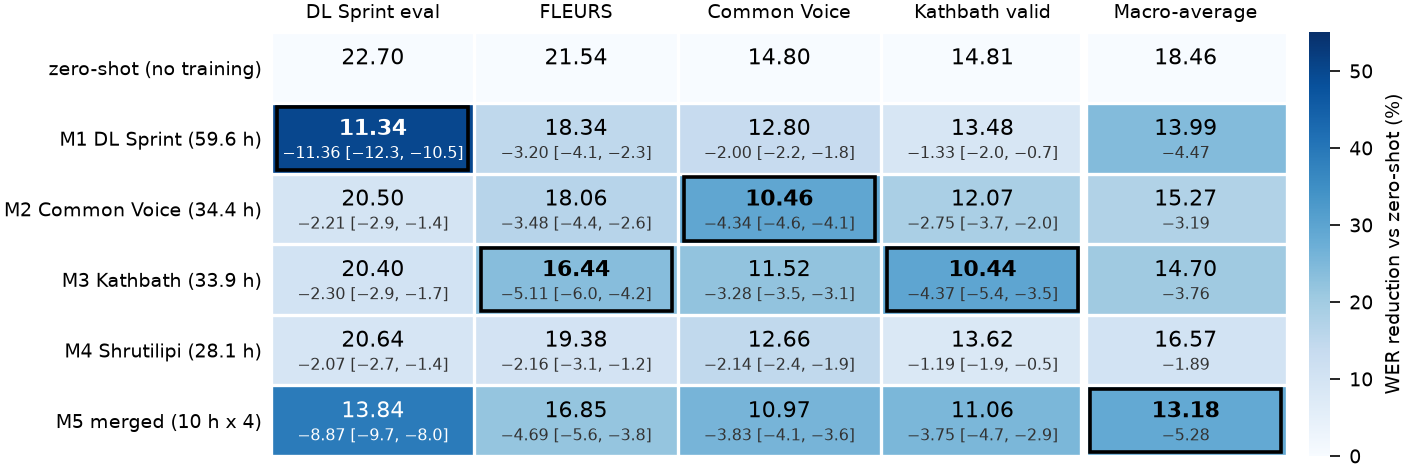
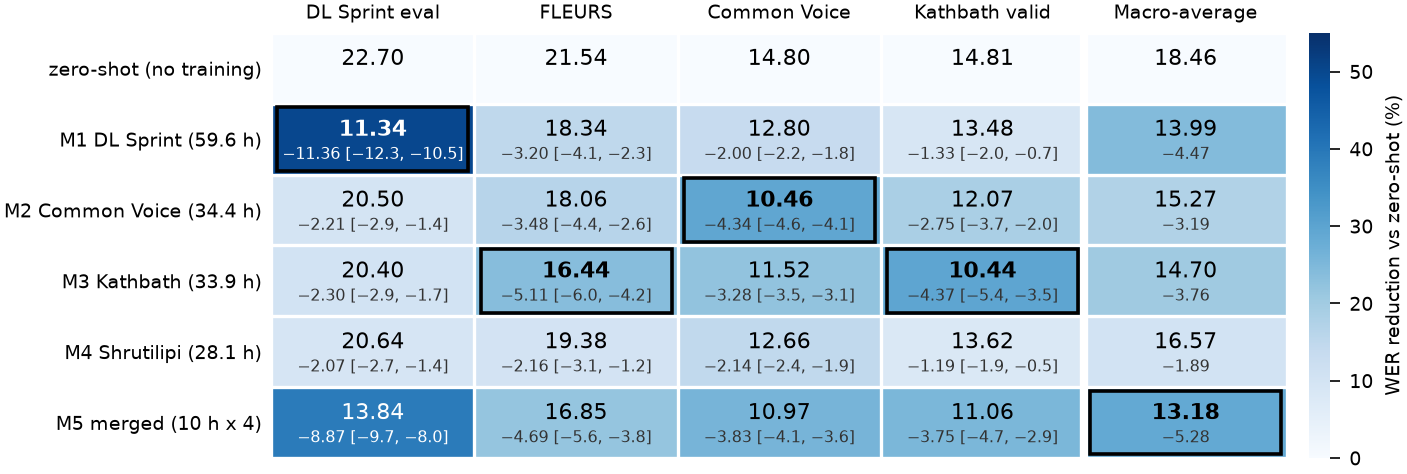
Phase 4 finish runner: Kaggle rows in, analysis, Gate 4 and 4-epoch paired tests, figures, one summary file
Figure 13 adds the M6 row once its four test sets are scored.

diff --git a/figures/scripts/f13_matrix_heatmap.py b/figures/scripts/f13_matrix_heatmap.py
@@ -25,7 +25,11 @@ SETS = {"splits_fa-eval": "DL Sprint eval", "fleurs-test": "FLEURS", "cv-test": 
         "kathbath-valid": "Kathbath valid"}
 RUNS = {"zero-shot": "zero-shot (no training)", "m1_full": "M1 DL Sprint (59.6 h)",
         "m2_cv_t4": "M2 Common Voice (34.4 h)", "m3_kathbath_t4": "M3 Kathbath (33.9 h)",
-        "m4_shrutilipi_t4": "M4 Shrutilipi (28.1 h)", "m5_merged_t4": "M5 merged (10 h x 4)"}
+        "m4_shrutilipi_t4": "M4 Shrutilipi (28.1 h)", "m5_merged_t4": "M5 merged (10 h x 4)",
+        "m6_harmonized_t4": "M6 merged, harmonized"}
+# a model without all four comparisons yet (e.g. M6 before its Kaggle scoring) is left out
+RUNS = {r: n for r, n in RUNS.items() if r == "zero-shot" or all(
+    (ROOT / "results/compare/phase4" / f"{s}__{r}_vs_tugstugi_a100.json").exists() for s in SETS)}
 
 rows = []
 for s, sname in SETS.items():
@@ -49,7 +53,7 @@ W = d.pivot(index="train", columns="test", values="wer").loc[rlabels, cols]
 R = d.pivot(index="train", columns="test", values="rel_reduction").loc[rlabels, cols]
 key = d.set_index(["train", "test"])
 
-fig, ax = plt.subplots(figsize=(PAGE_W, 2.75))
+fig, ax = plt.subplots(figsize=(PAGE_W, 0.46 * len(RUNS)))
 im = ax.imshow(R.values, cmap="Blues", vmin=0, vmax=55, aspect="auto")
 for i, r in enumerate(rlabels):
     for j, c in enumerate(cols):
